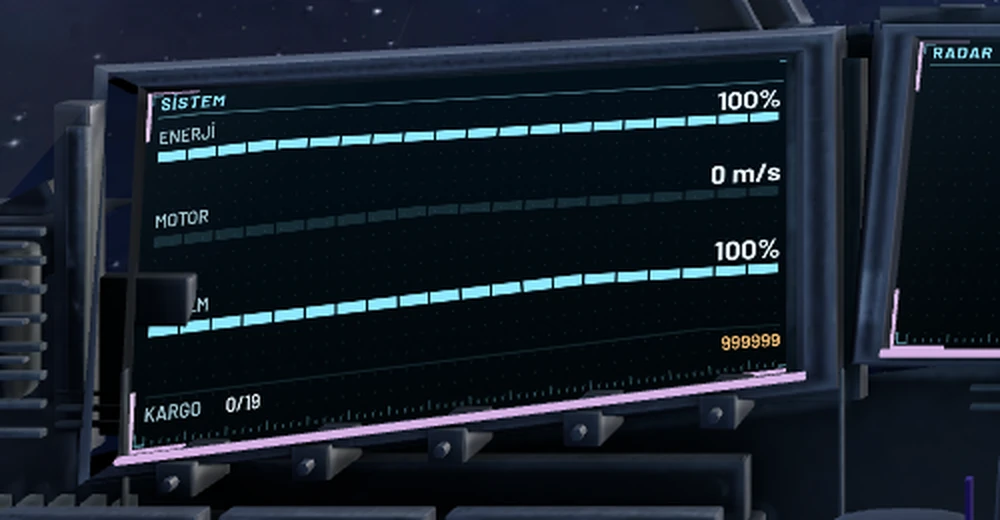
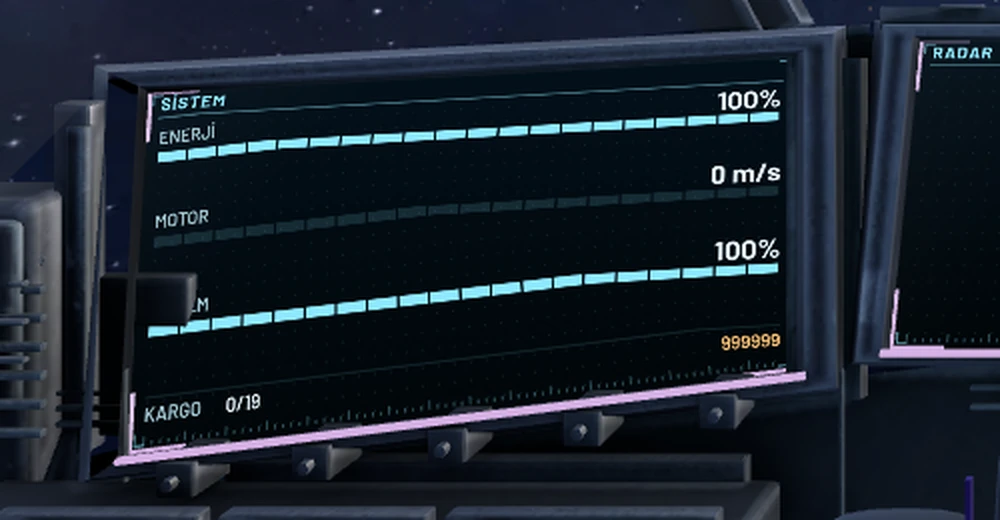
Hayalet r004: eski ızgara ekrana biniyordu, kaldırıldı

diff --git a/tools/asset_factory/families/cockpit/hayalet_b.py b/tools/asset_factory/families/cockpit/hayalet_b.py
@@ -233,11 +233,12 @@ def build(spec, mats):
         d_ = tube(duct, 0.0055, 8)
         add('duct_' + ('L' if sd < 0 else 'R'), d_, 'hay_dark', smooth=60)
         # omuzda havalandırma ızgarası (referanstaki yan ızgara): çerçeve + ince dilimler
-        gu0, gu1 = sorted((uu(268), uu(328)))
-        plate(gu0, 470, gu1, 536, mid_d, 0.0065, 0.008)
-        for k_ in range(9):
-            v_ = 478 + k_ * 6.6
-            plate(gu0 + 4, v_, gu1 - 4, v_ + 2.4, dark_d, 0.0105, 0.004)
+        if not A.get('r004'):      # r004: ızgara omuz bloğuna (ekran dışı) taşındı; bu konum ekran sol kenarına bindiği için kaldırıldı
+            gu0, gu1 = sorted((uu(268), uu(328)))
+            plate(gu0, 470, gu1, 536, mid_d, 0.0065, 0.008)
+            for k_ in range(9):
+                v_ = 478 + k_ * 6.6
+                plate(gu0 + 4, v_, gu1 - 4, v_ + 2.4, dark_d, 0.0105, 0.004)
         # ekranlar arası dikey derzler
     for u_ in (300, 600, 1000, 1300):
         plate(u_ - 1, 510, u_ + 1, 656, dark_d, 0.0085, 0.004)
